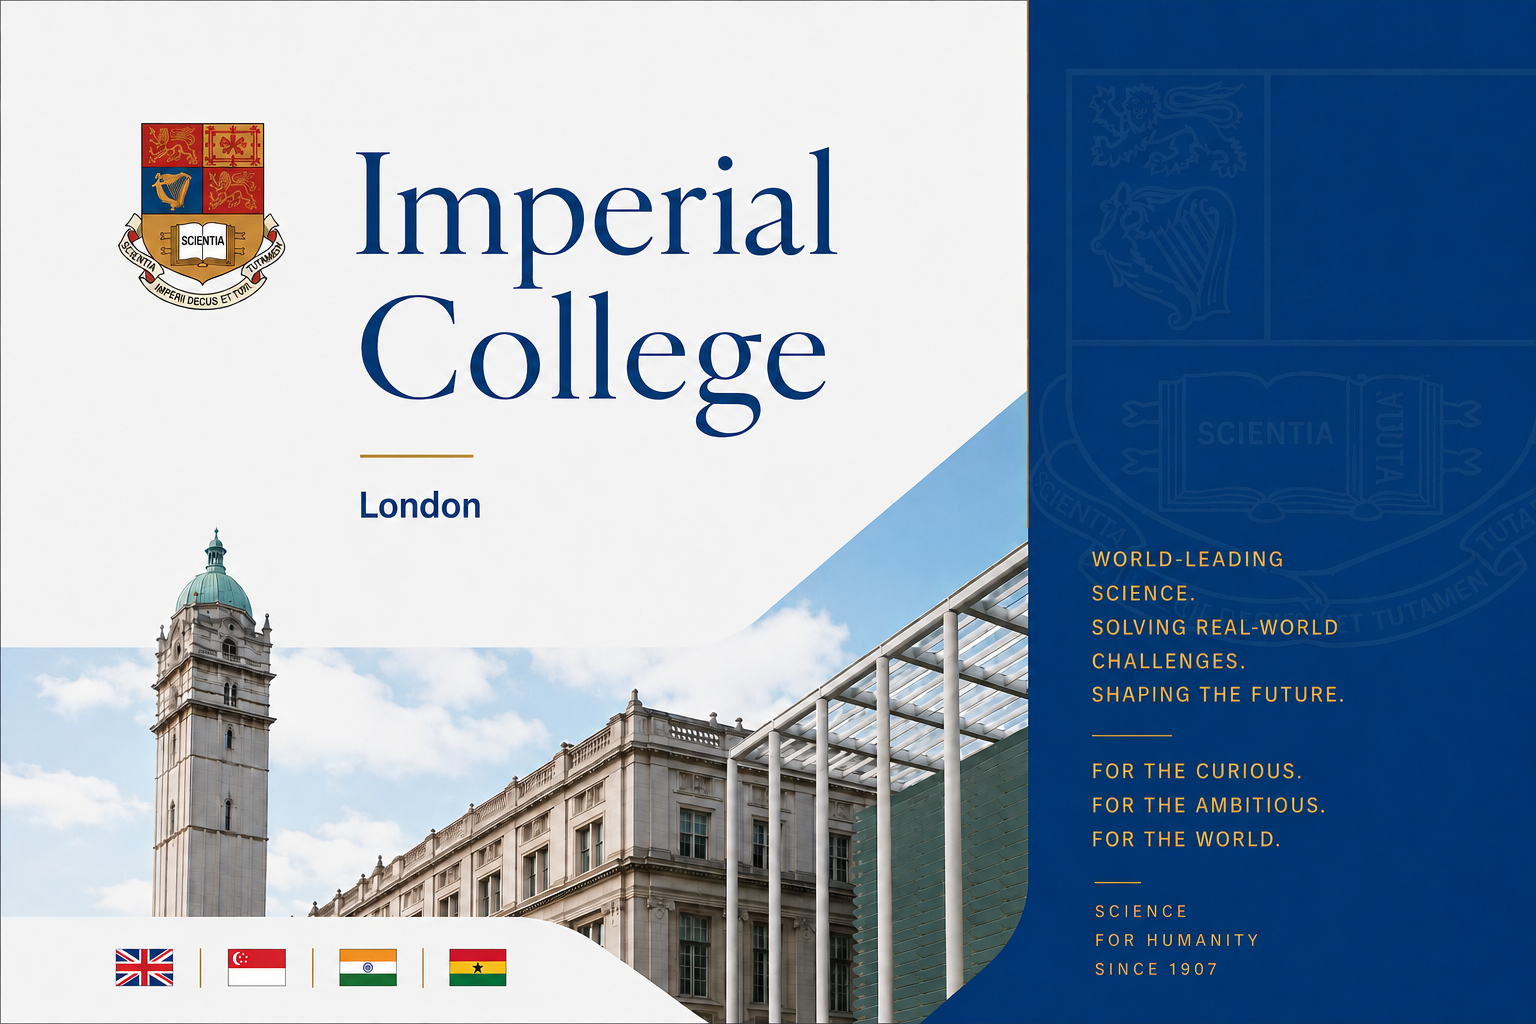
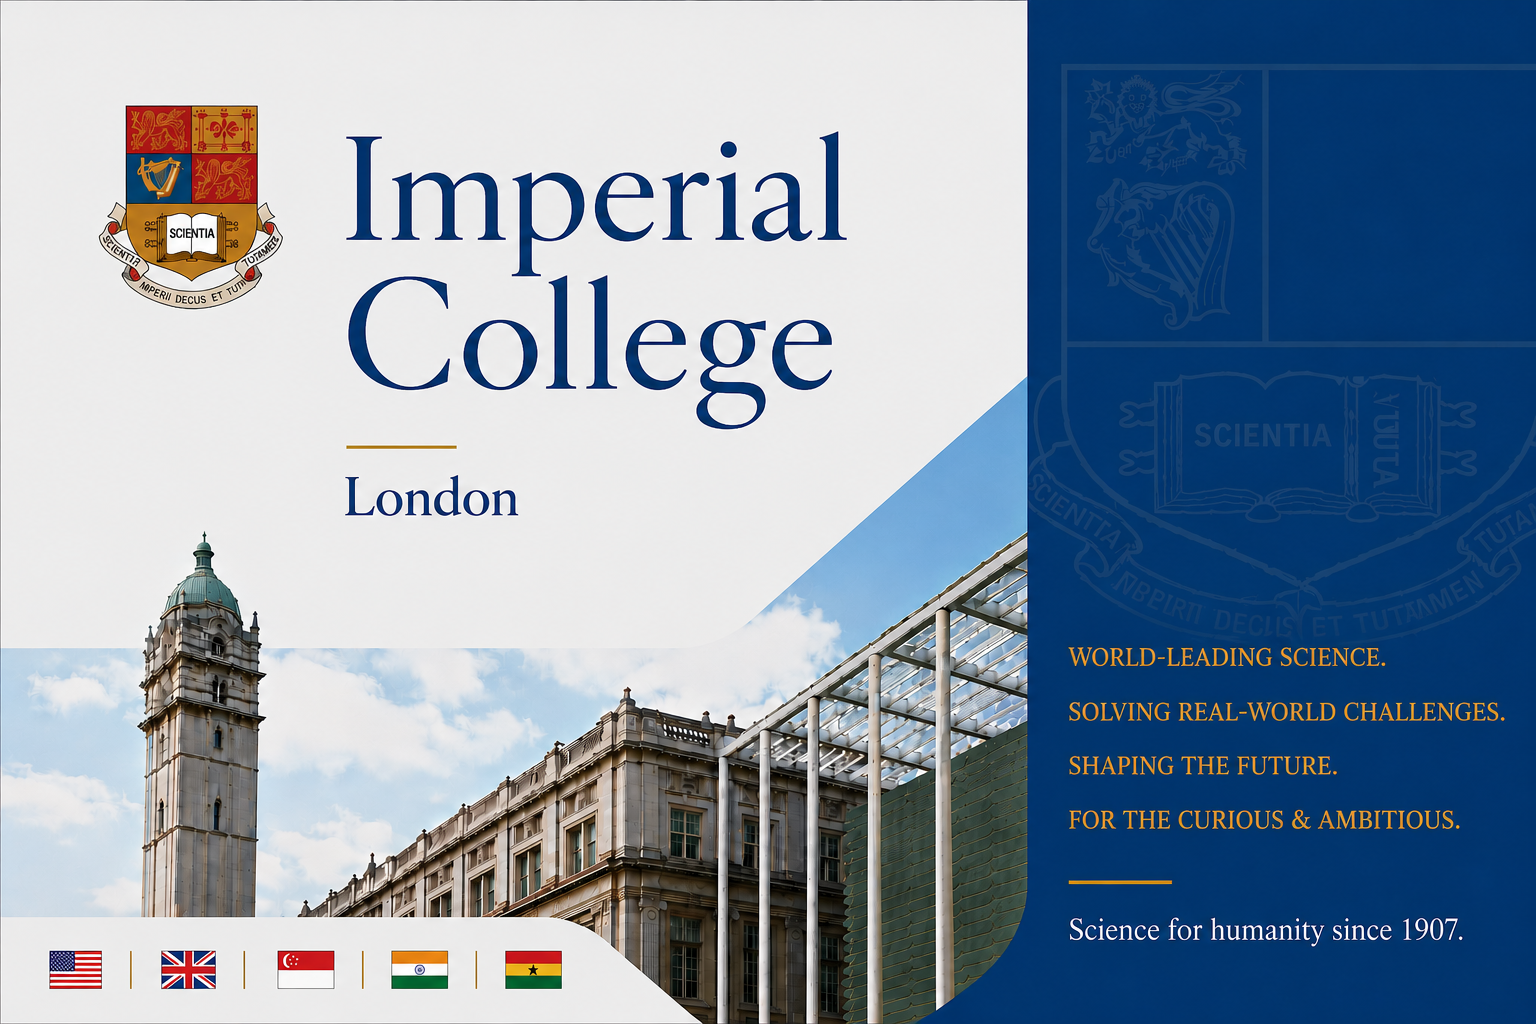
update

diff --git a/src/app/App.tsx b/src/app/App.tsx
@@ -280,22 +280,6 @@ export default function App() {
           </MetallicCard>
         </section>
 
-        {/* ══ Section: Research That Leads ══ */}
-        <section className="mb-28">
-          <SectionLabel>Research That Leads</SectionLabel>
-          <h2 className="mb-6" style={{ fontFamily: "Playfair Display, serif", fontSize: "clamp(1.8rem, 3.5vw, 2.8rem)", color: "#080d1a", fontWeight: 500 }}>
-            World-leading research excellence
-          </h2>
-          <MetallicCard className="p-8 mb-6" goldAccent>
-            <p className="mb-4" style={{ fontFamily: "Playfair Display, serif", fontSize: "1.05rem", fontWeight: 300, color: "#ffffff", lineHeight: 1.85 }}>
-              According to the <strong style={{ color: "var(--gold)", fontWeight: 600 }}>Research Excellence Framework 2021</strong>, Imperial has a greater proportion of world-leading 4-star research than any other UK university. The same results place Imperial <strong style={{ color: "var(--gold)", fontWeight: 600 }}>first in the UK for research outputs and research environment</strong>, and first for research impact among Russell Group universities.
-            </p>
-            <p style={{ fontSize: "0.95rem", fontFamily: "Playfair Display, serif", color: "#ffffff", lineHeight: 1.85 }}>
-              Imperial was also built on a distinguished history of invention, from pioneering penicillin, holography and fibre optics to today's frontier work in climate, health, AI and advanced engineering. The institution's research culture is designed to solve major global challenges at pace and scale.
-            </p>
-          </MetallicCard>
-        </section>
-
         {/* ══ Section: Built for Employability ══ */}
         <section className="mb-28">
           <SectionLabel>Built for Employability</SectionLabel>
@@ -550,19 +534,6 @@ export default function App() {
               </MetallicCard>
             ))}
           </div>
-        </section>
-
-        {/* ══ Section: Positioning Statement ══ */}
-        <section className="mb-28">
-          <SectionLabel>Positioning Statement</SectionLabel>
-          <MetallicCard className="p-10" goldAccent>
-            <p className="mb-5" style={{ fontFamily: "Playfair Display, serif", fontSize: "1.2rem", fontWeight: 300, color: "var(--gold)", lineHeight: 1.9, fontStyle: "italic" }}>
-              Imperial is not simply a prestigious London university. It is a <strong style={{ color: "var(--gold)", fontWeight: 600 }}>specialist, globally ranked institution</strong> where rigorous academic excellence meets frontier research, entrepreneurial execution and practical relevance.
-            </p>
-            <p style={{ fontFamily: "Playfair Display, serif", fontSize: "1.1rem", fontWeight: 300, color: "#ffffff", lineHeight: 1.85 }}>
-              For students comparing Imperial with other top universities, the distinction is clear: Imperial combines elite scientific reputation with a culture of impact, built for people who want not only to study the future, but to <strong style={{ color: "var(--gold)", fontWeight: 600 }}>shape it</strong>.
-            </p>
-          </MetallicCard>
         </section>
 
         {/* ══ Section: Strategic Objectives ══ */}
@@ -1112,6 +1083,19 @@ export default function App() {
               );
             })}
           </div>
+        </section>
+
+        {/* ══ Section: Positioning Statement ══ */}
+        <section className="mb-28">
+          <SectionLabel>Positioning Statement</SectionLabel>
+          <MetallicCard className="p-10" goldAccent>
+            <p className="mb-5" style={{ fontFamily: "Playfair Display, serif", fontSize: "1.2rem", fontWeight: 300, color: "var(--gold)", lineHeight: 1.9, fontStyle: "italic" }}>
+              Imperial is not simply a prestigious London university. It is a <strong style={{ color: "var(--gold)", fontWeight: 600 }}>specialist, globally ranked institution</strong> where rigorous academic excellence meets frontier research, entrepreneurial execution and practical relevance.
+            </p>
+            <p style={{ fontFamily: "Playfair Display, serif", fontSize: "1.1rem", fontWeight: 300, color: "#ffffff", lineHeight: 1.85 }}>
+              For students comparing Imperial with other top universities, the distinction is clear: Imperial combines elite scientific reputation with a culture of impact, built for people who want not only to study the future, but to <strong style={{ color: "var(--gold)", fontWeight: 600 }}>shape it</strong>.
+            </p>
+          </MetallicCard>
         </section>
 
       </main>